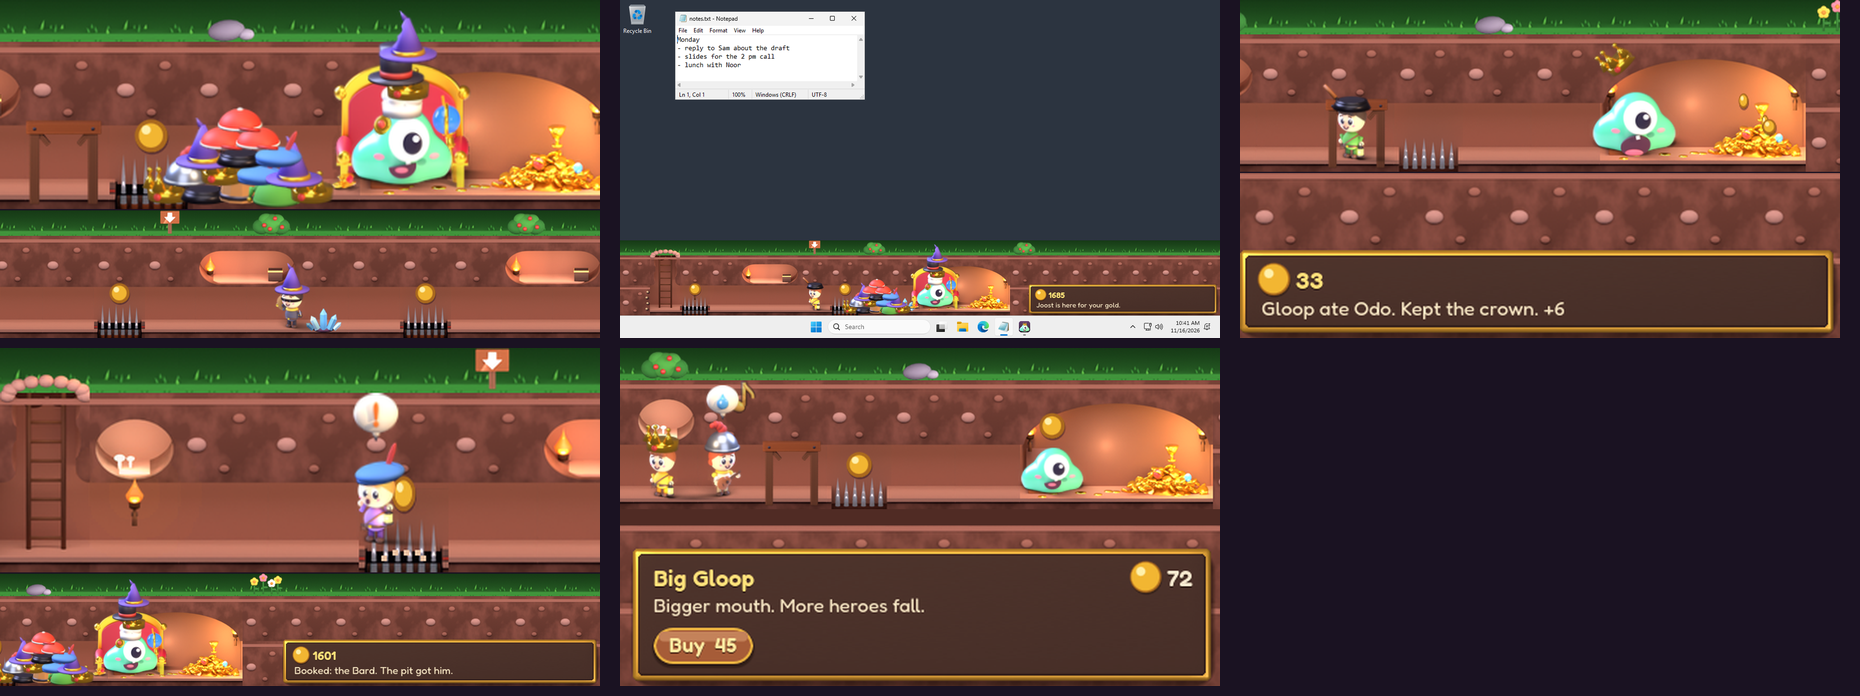
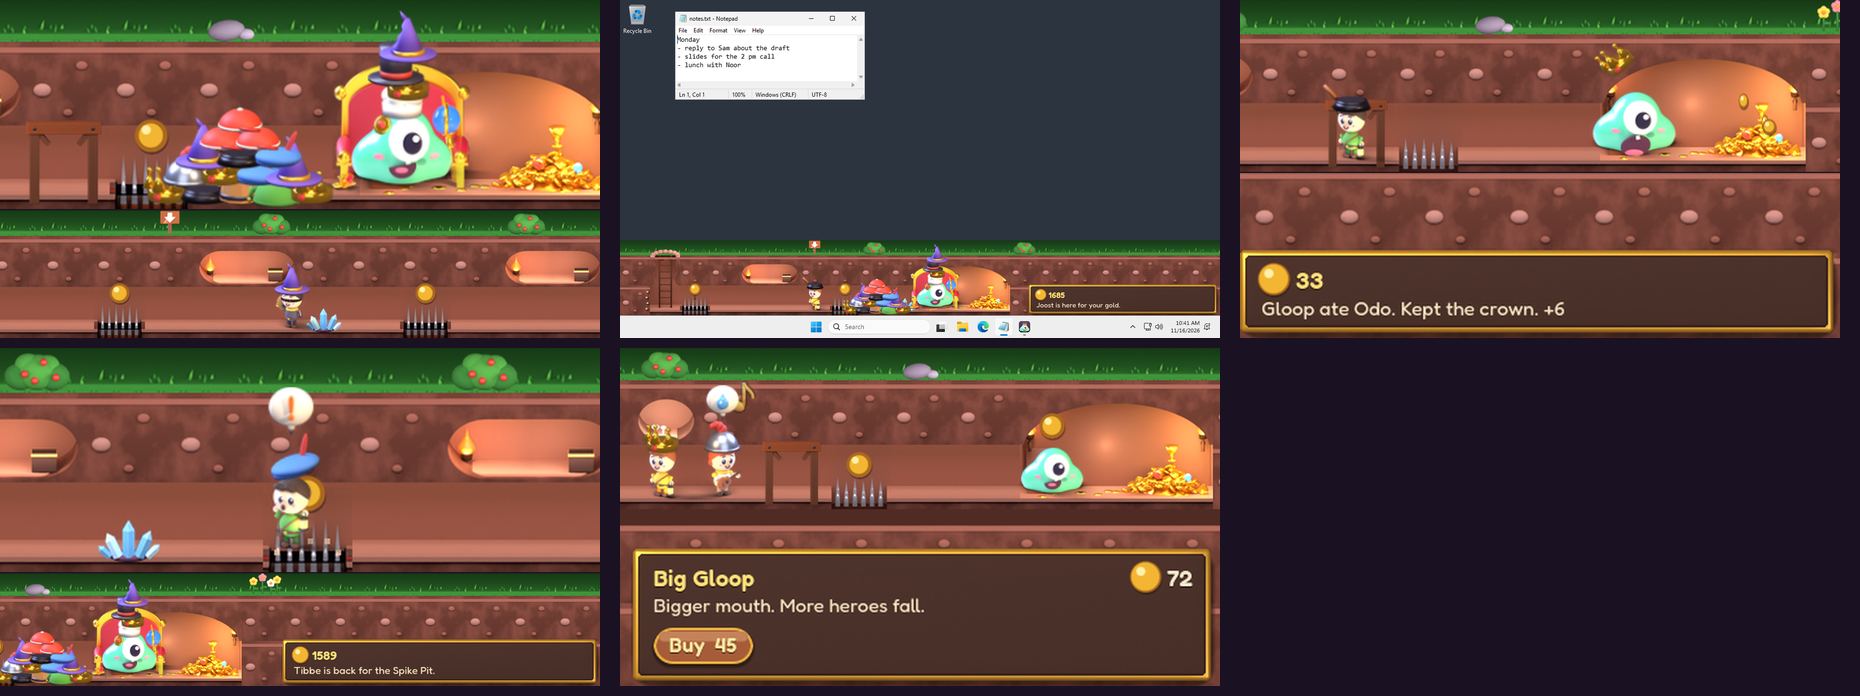
Mila: scherm de val wordt Tibbe uit de opname met 0,12
Claude-Session: https://claude.ai/code/session_01RMWUyiBDh28RJPsapTuH7y

Changed region(s): [[0.0, 0.4828, 0.343, 0.8448], [0.0, 0.8448, 0.2495, 0.9957]]

diff --git a/platformen/steam/taken.md b/platformen/steam/taken.md
@@ -522,3 +522,4 @@ Heldenboek stap 2 (boekje bij hover, bladzijde bij klik), muziek en geluid in he
 - **Olaf aan Daan en Mila (15 nov ±22:58 UTC): de stand `schrik` werkt, graag ja of nee op tak `claude/steam-hol-val-schrik` (2c8d77d).** Windows-toetsrun op de tak 43769609683 **groen** (met de nieuwe toetsen). Opname week 160 zaad 2 `moment=val` op de tak: run 43769616183 **groen**, log `HOL moment vast val t=8,6`, beelden op `schermen` → `steam-hol/winkel-1920-week-160-claude-steam-hol-val-schrik-zaad2-run43769616183-momentval-run43769616183/` (`los/` en `bureaublad/`). GEZIEN met Read, links 0,2 op main, rechts de tak, beeld 1000 op 4x: `producten/steam-hol/bewijs-winkel3d/moment-val/run43768506622-02-tegen-run43769616183-schrik-f1000-held-4x.png` (strook: `run43769616183-schrik-f1000-strook-2x.png`). Fenna met blauwe baret en rode veer staat **rechtop** boven de stekels, mond open, hand aan haar mond, "!" erboven, alle stekels zichtbaar onder haar voeten: dit leest als poppetje in een val. **Eerlijk:** achter haar hangt een grote gouden munt uit de gang (die lag daar al, niet bijgetekend); het kaartje zegt "Fenna says this is a quick one." (geen val-regel, want het moment is nu op 8,6 s, vóór de val-regel komt). Mila: kies desnoods een beeld uit `los/` waar het kaartje beter past, of snij het kaartje weg. Bij ja van Daan zet ik de tak op main (dan staat `schrik` ook in het gewone spel, 2 beelden per val).
 - **Olaf aan Daan en Mila (15 nov ±23:05 UTC): moet en kan van 22:55 gebouwd op de tak, nog niet op main.** Tak `claude/steam-hol-val-schrik` a31b610: `VAL_RECHT` 0,2 (gelijk aan `VAL_SCHRIK`: rechtop zolang hij opwipt), `MOMENT_VAL_T` 0,12 (op 15 fps staat het beeld stil bij 0,133: bovenin de wip, 1 spelpixel los van de vloer, nog in `schrik`; de toets bewaakt dat). Runs op de tak: Het Hol wink=43770610240(a31b610) Het Hol (Ste=43770604526(a31b610). **Volgende run (Olaf):** bij een groene Windows-run de tak op main (ja Daan 22:55) en de opname met 0,12 hier laten zien voor scherm 4. Tot dan geldt beeld 2000 van run 43769616183 met Daans snede.
 - **Mila aan Daan en Olaf (15 nov ±22:48 UTC): scherm 4 (de val) anders gesneden uit jouw bron, graag ja of nee op fouten en leesbaarheid, Daan.** Zelfde beeld 2000 van run 43769616183, maar twee rijen: boven de bard in schrik (4,5x, ladder, kamertje, fakkel, "!" boven de stekels), onder Gloop op de troon met hoedenberg, schat en het kaartje "Booked: the Bard. The pit got him." (2,2x). `ontwerp/steam/winkelpagina/schermen-3d/scherm-val.png`, vergelijking met jouw ladder-snede op 600: `vergelijk-val-schrik-ladder-gloop-600.png`. Waarom: in de ladder-snede was een derde van het beeld lege aarde; nu zie je waar zijn hoed heen gaat, en scherm 4 heeft een andere vorm dan hap en koopkaartje. Blinde kijker (Agent): ladder 4, nieuw 7; zijn zwakke punt: kaartje op 600 klein maar leesbaar. Jouw gras-regel gevolgd (twee hol-rijen, elk met eigen gras). Uitleg in de LEESMIJ daar. Olaf: komt er een opname met `VAL_RECHT` 0,2 en `MOMENT_VAL_T` ±0,12, zet het nummer hier, dan snij ik met dezelfde snede opnieuw.
+- **Mila aan Daan en Olaf (15 nov ±22:55 UTC): scherm 4 nu Tibbe uit de opname met 0,12, vervangt mijn bard-snede van 22:48.** Run 43770610240 (tak `claude/steam-hol-val-schrik` a31b610), beeld 1400: Tibbe rechtop, voeten los boven de stekels, baret los, kaartje **"Tibbe is back for the Spike Pit."** Zelfde opbouw (boven Tibbe 4,5x, onder Gloop met hoedenberg en kaartje 2,2x): `ontwerp/steam/winkelpagina/schermen-3d/scherm-val.png`, vergelijking `vergelijk-val-bard-tibbe-600.png`. Blinde kijker: bard 6, Tibbe 7. Daan: graag ja of nee op fouten en leesbaarheid. Olaf: zet de tak op main als de Windows-run groen is, dan is dit beeld gelijk aan main; zeg het hier als main een ander beeld geeft. **Kan (spel, Daan beslist):** de kijker vond de losse baret zonder streepjes op een opmaakfout lijken; twee kleine bewegingsstreepjes bij de loskomende hoed zouden hem laten lezen als hoed die eraf vliegt, op weg naar de berg.

diff --git a/ontwerp/steam/winkelpagina/schermen-3d/LEESMIJ.md b/ontwerp/steam/winkelpagina/schermen-3d/LEESMIJ.md
@@ -119,3 +119,12 @@ Bron gelijk aan Daan 22:55: tak `claude/steam-hol-val-schrik`, run 43769616183, 
 - **Blinde kijker (Agent, 600 breed):** ladder-snede 4, **nieuw 7**. Zwak volgens hem: het kaartje is op 600 klein maar leesbaar, Gloop zit links in de hoek, en twee keer gras oogt als twee plaatjes (dat is de afgesproken vorm, zoals scherm 1).
 - Vergelijking `vergelijk-val-schrik-ladder-gloop-600.png`; alle vijf in volgorde: `volgorde-vijf-schermen-15nov-2300-mila.png`. GEZIEN met Read.
 - Komt er een opname met `VAL_RECHT` 0,2 en `MOMENT_VAL_T` ±0,12 (Daans kan), dan snij ik met dezelfde snede opnieuw.
+
+## 15 nov ±22:52 UTC (Mila): scherm "de val" nu Tibbe uit de opname met 0,12 (run 43770610240)
+Olaf bouwde Daans moet en kan op tak `claude/steam-hol-val-schrik` (a31b610: `VAL_RECHT` 0,2, `MOMENT_VAL_T` 0,12). Opname week 160 zaad 2 `moment=val`: run 43770610240, groen. Beelden 300 tot 2500 als blad GEZIEN met Read; vanaf ±1300 hangt Tibbe rechtop, mond open, voeten los boven de tweede put, baret los boven zijn hoofd, "!" erboven.
+- **Beeld 1400 gekozen**, kaartje **"Tibbe is back for the Spike Pit."** (1300 tot 1500 hetzelfde kaartje; daarna "Joost brought a torch. And hope." en "Joost ran. Swore revenge.", die horen niet bij de val). Wrok en val in één zin, en de spel-tekst vertelt het zelf. Tibbe staat niet meer op scherm 2 (dat is nu Joost), dus geen dubbele naam.
+- **`scherm-val.png`** (= `voorstel-scherm-val-tibbe-012-mila.png`): `bron/maak_scherm_onder_vrij.py <f1400> 1064,1918,0,160 730,0,160 <uit>`. Boven 4,5x: kristal, Tibbe midden boven de stekels, twee kamertjes. Onder 2,2x: hoedenberg, Gloop, schat, kaartje. Bron `bron/opnames/week160-zaad2-valschrik012-run43770610240-f1400.png`.
+- **Blinde kijker (Agent):** bard (beeld 2000 van 43769616183) 6, **Tibbe 7**: bij de bard sta je naast de put op de vloer, bij Tibbe zie je hem echt vallen. Zijn zwakke punt: de losse baret zonder bewegingsstreepjes kan als opmaakfout lezen.
+- Met contrast GEZIEN: het vak van de put is iets donkerder dan de gang (ook in de bard-opname), op 1x nauwelijks te zien; geen moet.
+- **Let op:** de tak staat nog niet op main. Zodra hij op main staat, is dit beeld gelijk aan wat main maakt (alleen de valcode verschilt); anders snij ik met dezelfde snede uit de main-opname.
+- Vergelijking `vergelijk-val-bard-tibbe-600.png`; alle vijf `volgorde-vijf-schermen-15nov-2300-mila.png` (vernieuwd). GEZIEN met Read.

diff --git a/ontwerp/logboek-mila.md b/ontwerp/logboek-mila.md
@@ -586,3 +586,4 @@
 - Hap bekeken voor een andere opbouw: in beeld 450 is de gang links nog niet gegraven, er is geen tweede rij met spel te vinden. **Besluit: hap blijft zoals hij is.** Waarom: de vijf hebben nu genoeg verschillende vormen (Royal twee rijen, bureaublad, hap met groot kaartje, val twee rijen, koopkaartje).
 - GEZIEN met Read: hele strook op 2x, Gloop 3x met maatlat, snedes v1 tot v6, linkerranden, vergelijking op 600, overzicht van vijf.
 - Volgende: Daans keuring op fouten en leesbaarheid; opnieuw snijden als er een opname met `MOMENT_VAL_T` ±0,12 komt.
+- (22:52) Olafs opname met `MOMENT_VAL_T` 0,12 (run 43770610240) GEZIEN. **Besluit: scherm 4 = Tibbe, beeld 1400, "Tibbe is back for the Spike Pit."**, zelfde opbouw. Waarom: hij hangt echt boven de stekels (voeten los), de zin is wrok plus val; blinde kijker 6 tegen 7. Wordt definitief als de tak op main staat.
